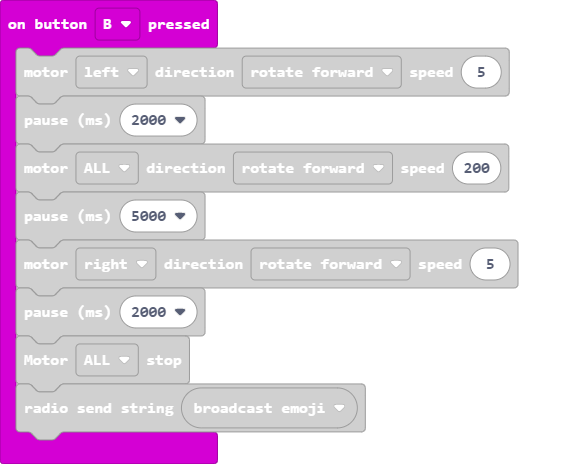
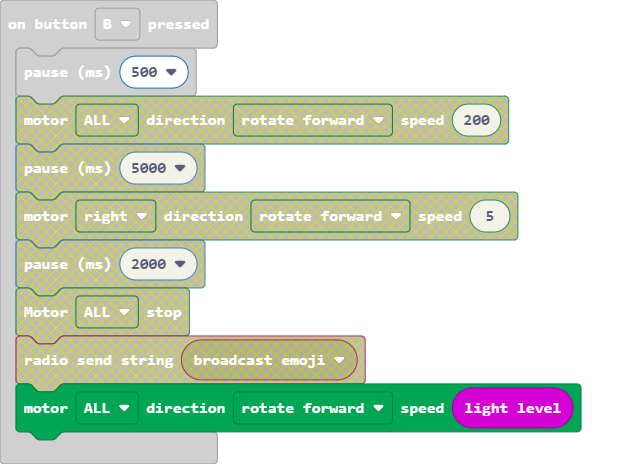
Update main.blocks, main.ts

diff --git a/main.ts b/main.ts
@@ -1,11 +1,4 @@
 input.onButtonPressed(Button.B, function () {
-    let broadcast_emoji = 0
-    DFRobotMaqueenPlus.mototRun(Motors.M1, Dir.CW, 5)
-    basic.pause(2000)
-    DFRobotMaqueenPlus.mototRun(Motors.ALL, Dir.CW, 200)
-    basic.pause(5000)
-    DFRobotMaqueenPlus.mototRun(Motors.M2, Dir.CW, 5)
-    basic.pause(2000)
-    DFRobotMaqueenPlus.mototStop(Motors.ALL)
-    radio.sendString("" + (broadcast_emoji))
+    basic.pause(500)
+    DFRobotMaqueenPlus.mototRun(Motors.ALL, Dir.CW, input.lightLevel())
 })
